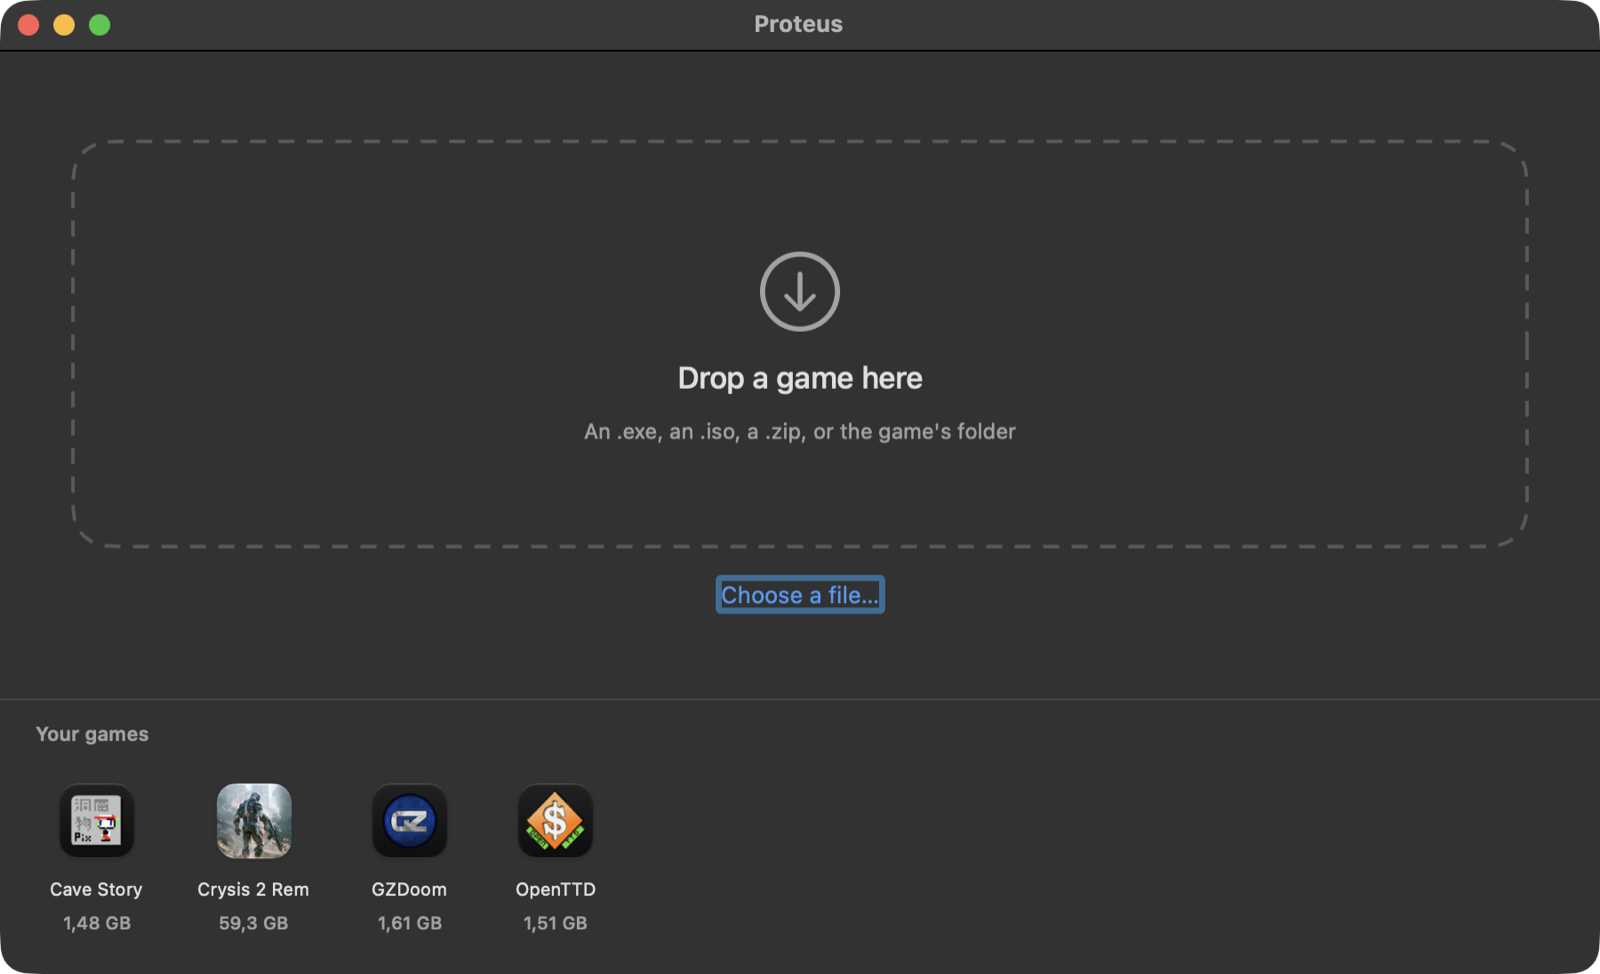
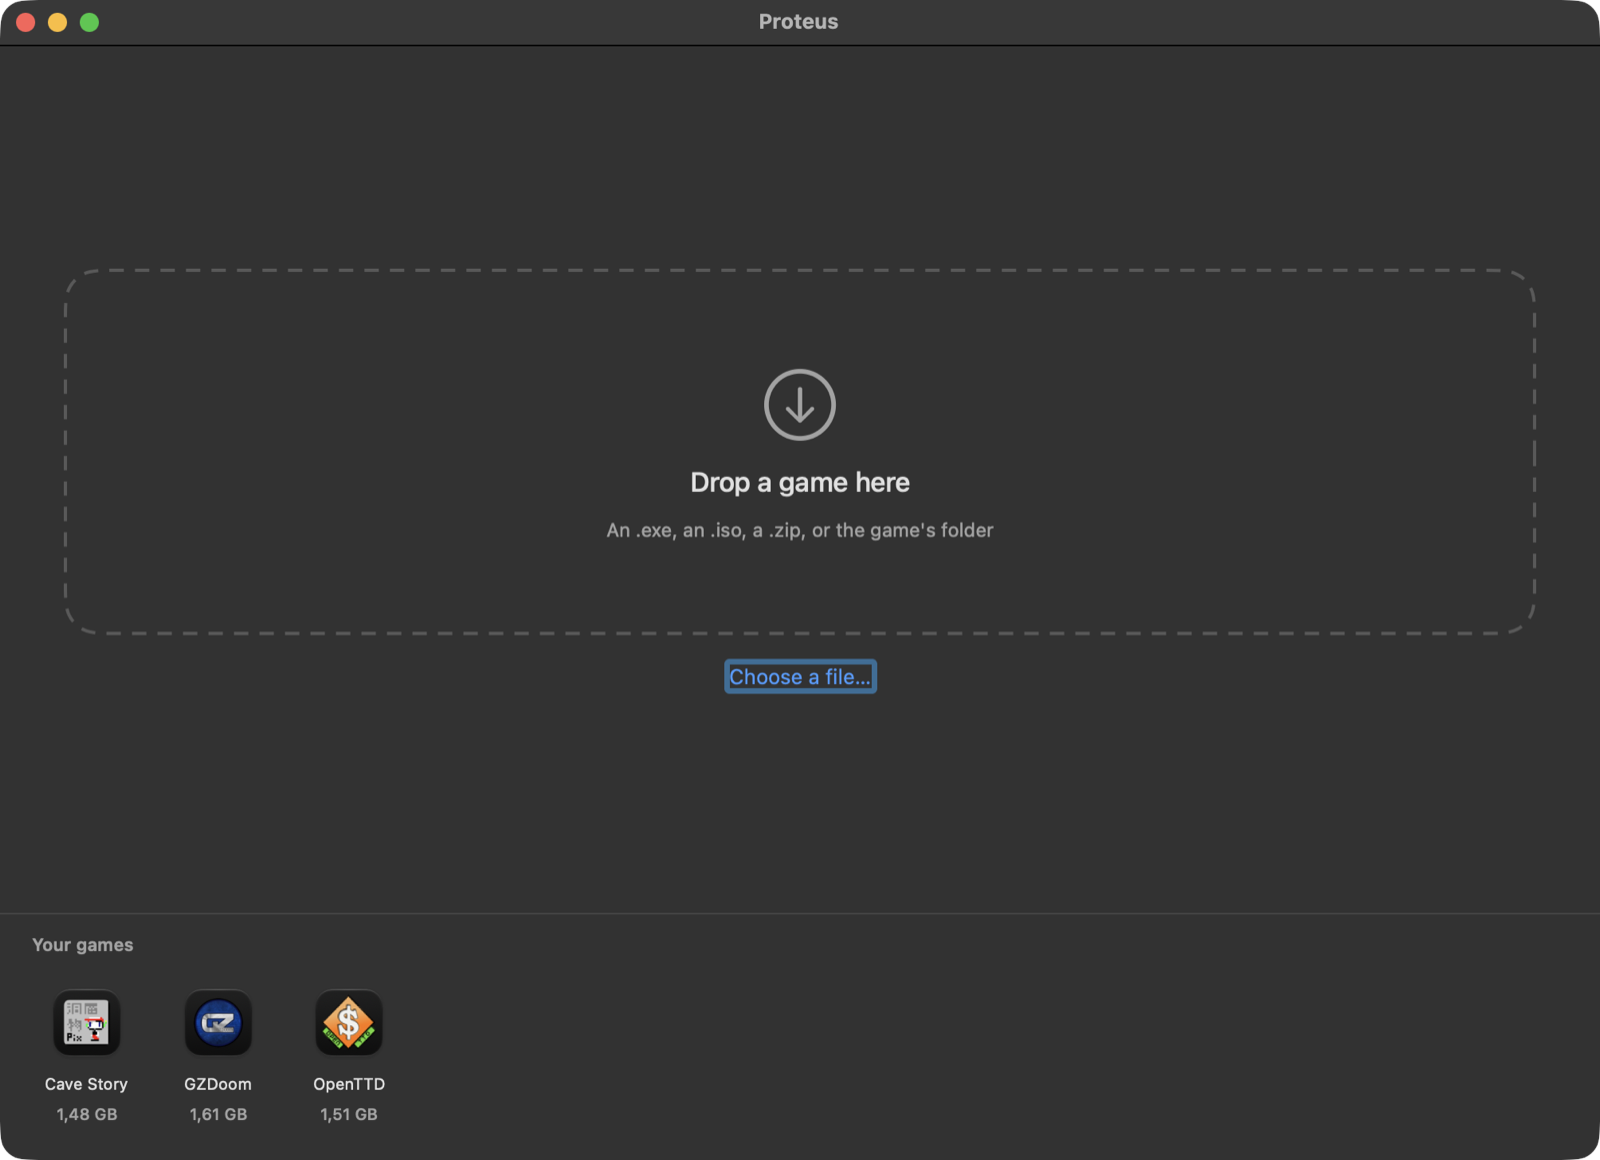
Take a commercial title out of the screenshot and the test notes
The library screenshot on the front page listed a commercial game from
the machine it was captured on, and the test notes named its executable.
Neither is a credential, but neither belongs in a public repository
either: the finding it illustrates is about DirectX 12 engines being
chosen before the game is known, and that finding does not depend on
which game it was.

The screenshot was retaken with the free and open titles only — Cave
Story, GZDoom, OpenTTD — by hiding the other app from the library scan
for the duration of the capture and putting it back. Nothing was
uninstalled, and the notes keep the whole technical account.

Claude-Session: https://claude.ai/code/session_01U1pWLDQqcrSEAq7AYSYvam

diff --git a/docs/TESTS.md b/docs/TESTS.md
@@ -524,11 +524,11 @@ window does not leave an installer running invisibly in the background.
 
 # Seventh round: the engine is chosen before the game is known
 
-A user installing a DirectX 12 game got "Failed creating the Direct3D device"
-and a window that never appeared. The wrapper was correct in every visible way:
-the right executable was picked (`Bin64/Crysis2Remastered.exe`, the real
-CryEngine binary, not a launcher stub) and the right renderer was chosen
-(`d3dmetal`, correct for DirectX 12).
+A user installing a large DirectX 12 game got "Failed creating the Direct3D
+device" and a window that never appeared. The wrapper was correct in every
+visible way: the right executable was picked — the real CryEngine binary four
+folders deep in `Bin64/`, not the launcher stub beside it — and the right
+renderer was chosen (`d3dmetal`, correct for DirectX 12).
 
 What was wrong was underneath. `D3DMETAL = 1` was written onto a wrapper built
 with the general Wine engine — and D3DMetal ships only with the Game Porting
